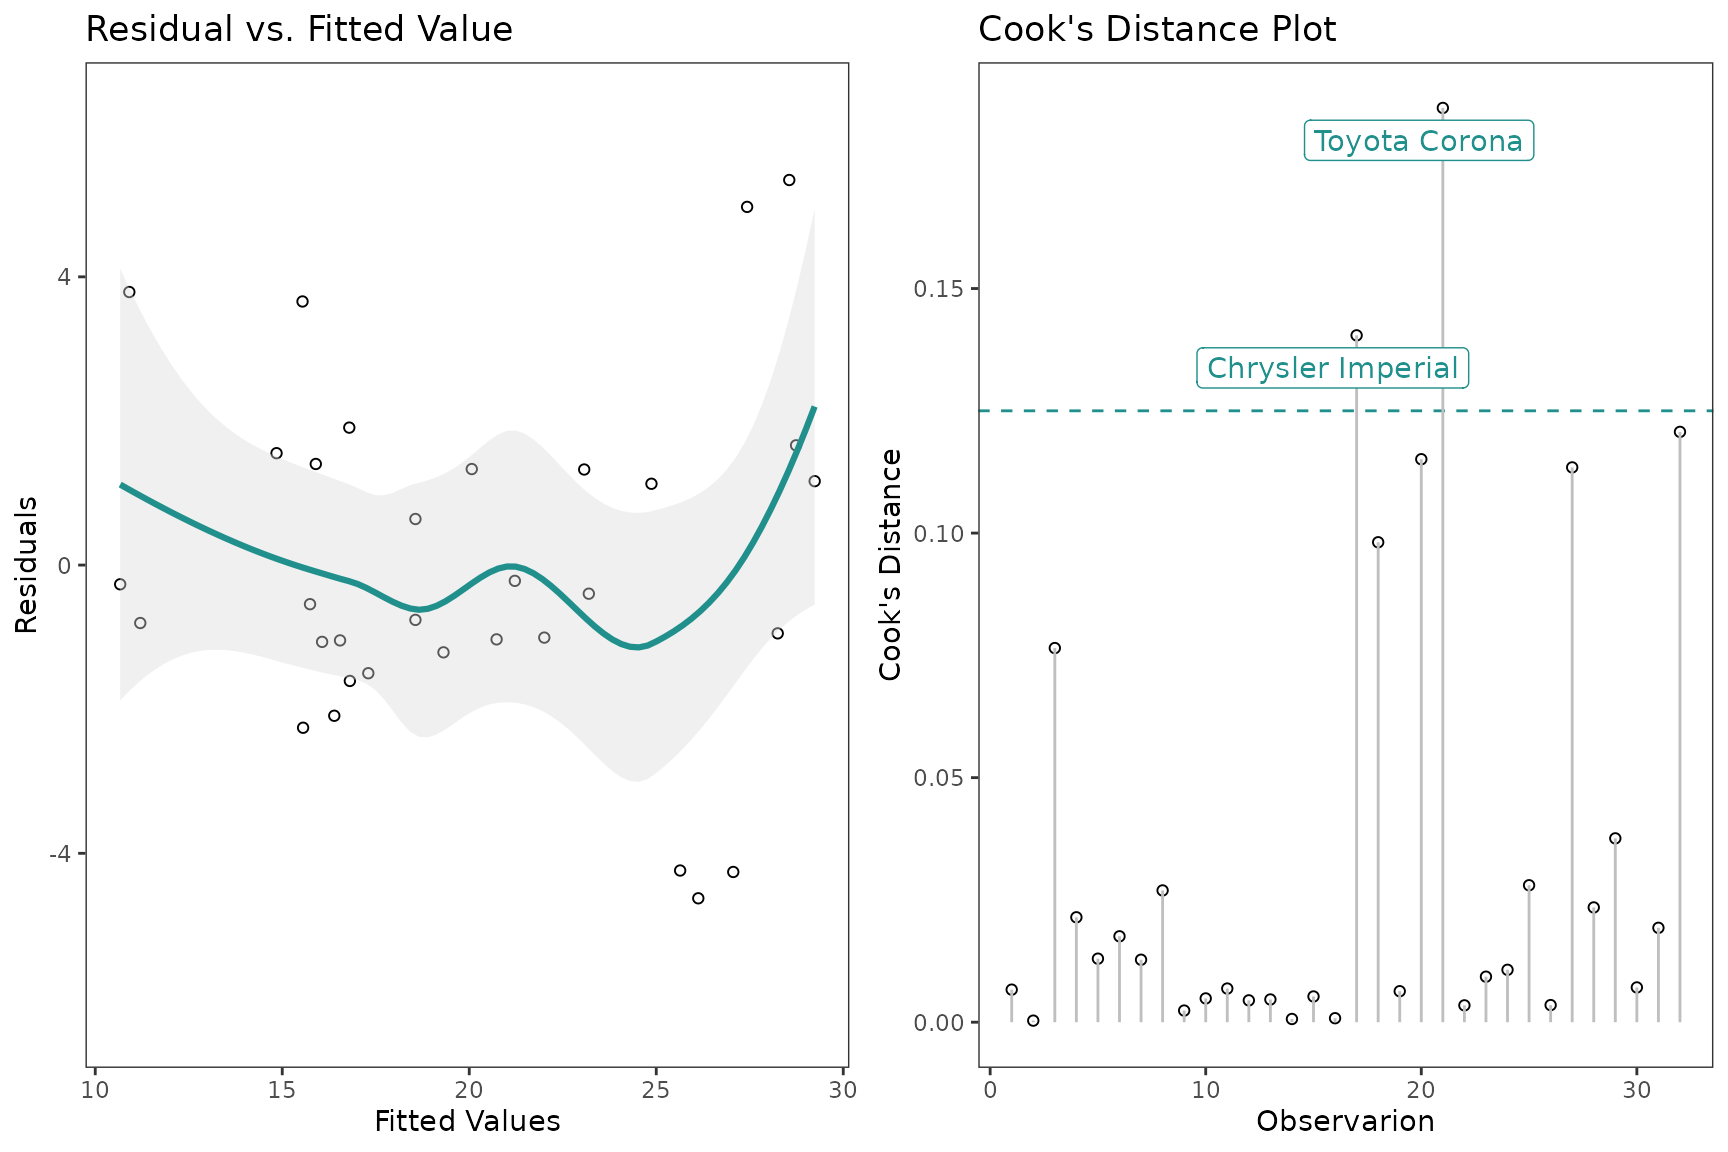
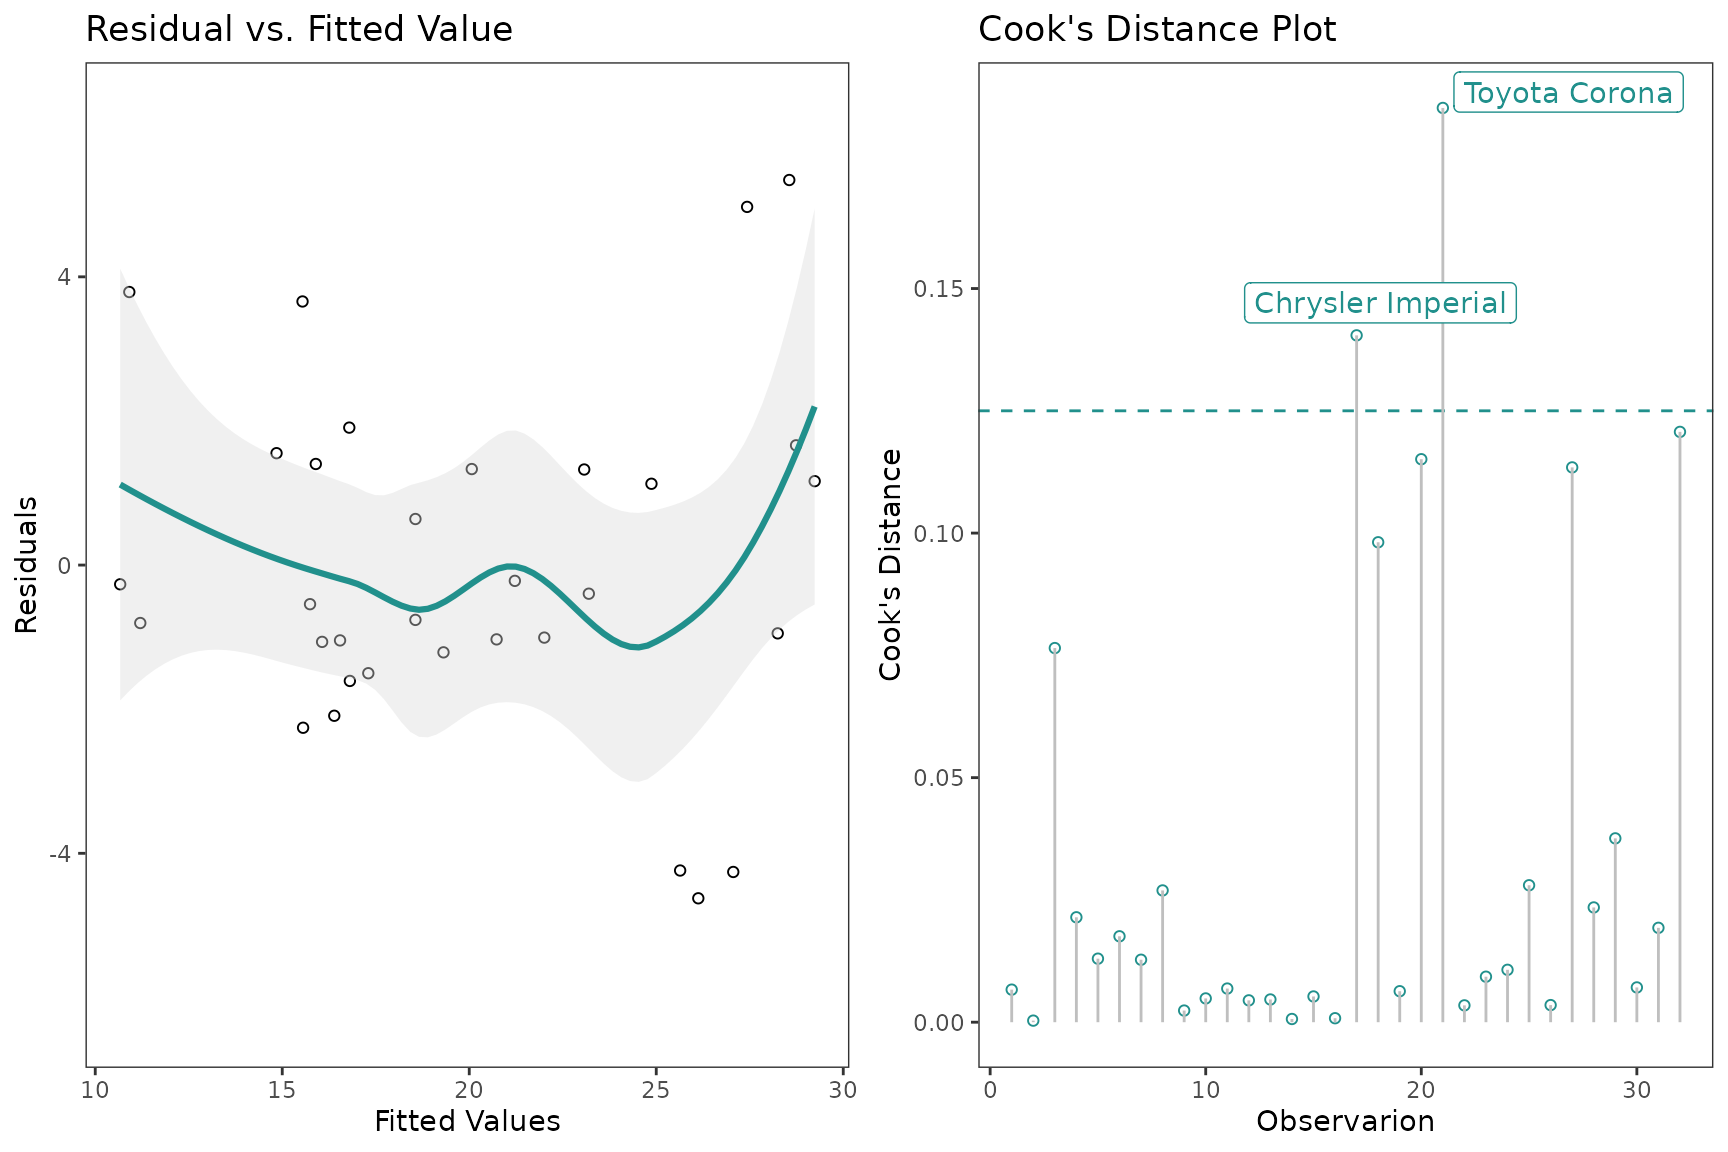
added new argument to diagnostic_plots()

Changed region(s): [[0.75, 0.0625, 0.9688, 0.1562], [0.6875, 0.25, 0.875, 0.3438]]

diff --git a/docs/reference/diagnostic_plots.html b/docs/reference/diagnostic_plots.html
@@ -65,10 +65,11 @@
     <div id="ref-usage">
     <div class="sourceCode"><pre class="sourceCode r"><code><span><span class="fu">diagnostic_plots</span><span class="op">(</span></span>
 <span>  <span class="va">model</span>,</span>
+<span>  which_plots <span class="op">=</span> <span class="fl">1</span><span class="op">:</span><span class="fl">4</span>,</span>
+<span>  cooksD_type <span class="op">=</span> <span class="fl">1</span>,</span>
 <span>  standard_errors <span class="op">=</span> <span class="cn">FALSE</span>,</span>
 <span>  point_size <span class="op">=</span> <span class="fl">1.5</span>,</span>
 <span>  theme_color <span class="op">=</span> <span class="st">"#21908CFF"</span>,</span>
-<span>  which_plots <span class="op">=</span> <span class="fl">1</span><span class="op">:</span><span class="fl">4</span>,</span>
 <span>  n_columns <span class="op">=</span> <span class="fl">2</span></span>
 <span><span class="op">)</span></span></code></pre></div>
     </div>
@@ -77,6 +78,15 @@
     <h2>Arguments</h2>
     <dl><dt>model</dt>
 <dd><p>Model of class "lm" or "glm"</p></dd>
+
+
+<dt>which_plots</dt>
+<dd><p>Choose which diagnostic plots to choose from. <br> Options are 1 = 'residual vs fitted', 2 = 'Normal-QQ',
+3 = 'Scale-location', 4 = 'Residual vs Leverage', 5 = "Cook's Distance". 6 = "Collinearity". Default is 1:4</p></dd>
+
+
+<dt>cooksD_type</dt>
+<dd><p>An integer between 1 and 4 indicating the threshold to be computed for Cook's Distance plot. Default is 1. See details for threshold computation</p></dd>
 
 
 <dt>standard_errors</dt>
@@ -91,11 +101,6 @@
 <dd><p>Change color of the geom_smooth line and text labels for the respective diagnostic plot</p></dd>
 
 
-<dt>which_plots</dt>
-<dd><p>Choose which diagnostic plots to choose from. <br> Options are 1 = 'residual vs fitted', 2 = 'Normal-QQ',
-3 = 'Scale-location', 4 = 'Residual vs Leverage', 5 = "Cook's Distance". 6 = "Collinearity". Default is 1:4</p></dd>
-
-
 <dt>n_columns</dt>
 <dd><p>number of columns for grid layout. Default is 2</p></dd>
 
@@ -108,17 +113,21 @@
     </div>
     <div id="details">
     <h2>Details</h2>
-    <p>Plot 5: "Cook's Distance": A data point having a large Cook's distance indicates that the data point
-strongly influences the fitted values of the model. The threshold used for detecting or classifying observations as outers is \(4/n\)
-where \(n\) is the number of observations.</p>
-<p>Plot 6: "Collinearity": Conisders the variance inflation factor (VIF) for multicollinearity: <br>
+    <p><strong>Plot 5:</strong> "Cook's Distance": A data point having a large Cook's distance indicates that the data point
+strongly influences the fitted values of the model. The default threshold used for detecting or classifying observations as outers is \(4/n\) (i.e cooksD_type=1)
+where \(n\) is the number of observations. The thresholds computed are as follows: <br></p><ul><li><p>cooksD_type = 1: 4/n</p></li>
+<li><p>cooksD_type = 2: 4/(n-p-1)</p></li>
+<li><p>cooksD_type = 3: 1/(n-p-1)</p></li>
+<li><p>cooksD_type = 4: 3* mean(cook's distance values)</p></li>
+</ul><p>where \(n\) is the number of observations and \(p\) is the number of predictors. <br></p>
+<p><strong>Plot 6:</strong> "Collinearity": Conisders the variance inflation factor (VIF) for multicollinearity: <br>
 Tolerance = \(1 - R_j^2\), VIF = (1/Tolerance)
 where \(R_j^2\) is the coefficient of determination of a regression of predictor \(j\) on all the other predictors.
 A general rule of thumb is that VIFs exceeding 4 warrant further investigation, while VIFs exceeding 10 indicates a multicollinearity problem <br><br></p>
     </div>
     <div id="references">
     <h2>References</h2>
-    <p>Belsley, D. A., Kuh, E., and Welsch, R. E. (1980). Regression Diagnostics: Identifying Influential Data and Sources of Collinearity. New York: John Wiley &amp; Sons. <br><br></p>
+    <p>Belsley, D. A., Kuh, E., and Welsch, R. E. (1980). Regression Diagnostics: Identifying Influential Data and Sources of Collinearity. New York: John Wiley &amp; Sons.<br></p>
 <p>Sheather, S. (2009). A modern approach to regression with R. Springer Science &amp; Business Media.</p>
     </div>
 

diff --git a/docs/articles/Overview_of_ggDoE.html b/docs/articles/Overview_of_ggDoE.html
@@ -542,7 +542,7 @@ construct the pareto plot.</p>
 <span><span class="co">#&gt; <span style="color: #949494;"># A tibble: 1 × 4</span></span></span>
 <span><span class="co">#&gt;   alpha   PSE    ME   SME</span></span>
 <span><span class="co">#&gt;   <span style="color: #949494; font-style: italic;">&lt;dbl&gt;</span> <span style="color: #949494; font-style: italic;">&lt;dbl&gt;</span> <span style="color: #949494; font-style: italic;">&lt;dbl&gt;</span> <span style="color: #949494; font-style: italic;">&lt;dbl&gt;</span></span></span>
-<span><span class="co">#&gt; <span style="color: #BCBCBC;">1</span>   0.1 0.335 0.600  1.12</span></span>
+<span><span class="co">#&gt; <span style="color: #BCBCBC;">1</span>   0.1 0.335 0.604  1.14</span></span>
 <span><span class="co">#&gt; </span></span>
 <span><span class="co">#&gt; $dat</span></span>
 <span><span class="co">#&gt; <span style="color: #949494;"># A tibble: 15 × 3</span></span></span>

diff --git a/docs/news/index.html b/docs/news/index.html
@@ -65,6 +65,8 @@
 </ul><p>NEW FEATURES</p>
 <ul><li>
 <code><a href="../reference/half_normal.html">half_normal()</a></code> has new argument <code>point_color</code> to change the color of the points</li>
+<li>
+<code><a href="../reference/diagnostic_plots.html">diagnostic_plots()</a></code> has a new argument <code>cooksD_type</code> to change the threshold computed for Cook’s distance plot (plot <a href="https://github.com/toledo60/ggDoE/issues/6" class="external-link">#6</a>)</li>
 </ul><p>CHANGES</p>
 <ul><li>
 <code><a href="../reference/half_normal.html">half_normal()</a></code> now uses <code><a href="https://rdrr.io/pkg/ggrepel/man/geom_text_repel.html" class="external-link">ggrepel::geom_text_repel</a></code> instead of hard-coded <code>geom_text</code> to try and avoid label overlap</li>

diff --git a/NEWS.md b/NEWS.md
@@ -4,11 +4,10 @@ BREAKING
 
 * renamed argument `ncols` to `n_columns` in all functions which previously used this argument. These functions are: `diagnostic_plots()`,`gg_rsm()`, `interaction_effects()`,`main_effects()`,`twoD_projections()`
 
-
 NEW FEATURES
 
 * `half_normal()` has new argument `point_color` to change the color of the points
-
+* `diagnostic_plots()` has a new argument `cooksD_type` to change the threshold computed for Cook's distance plot (plot #6)
 
 CHANGES
 
